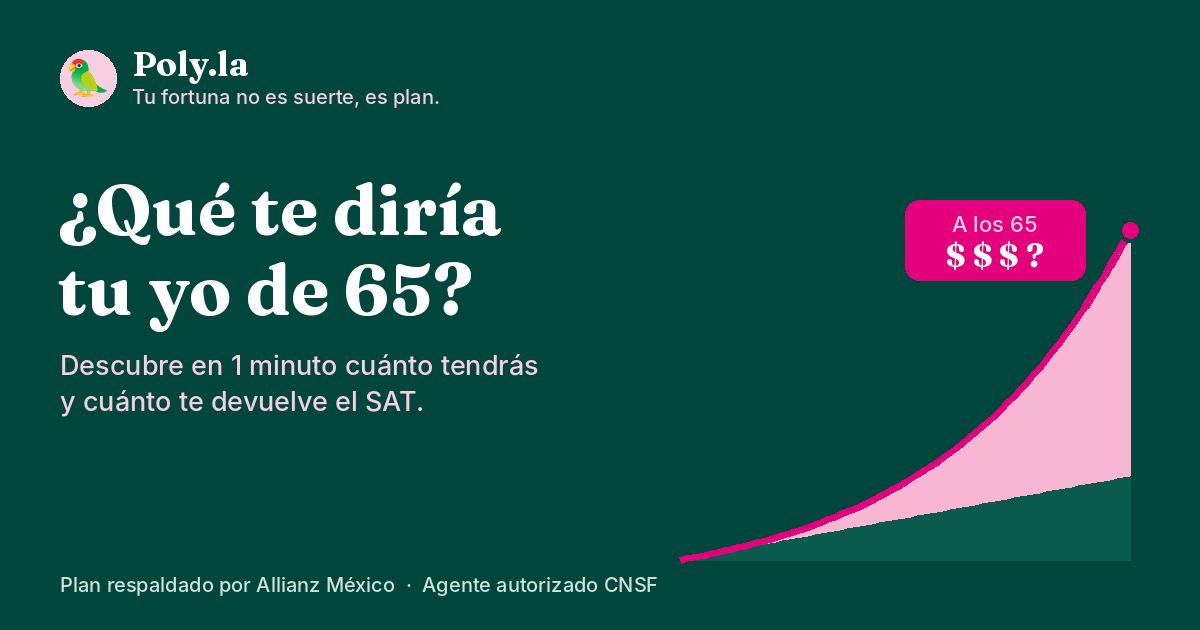
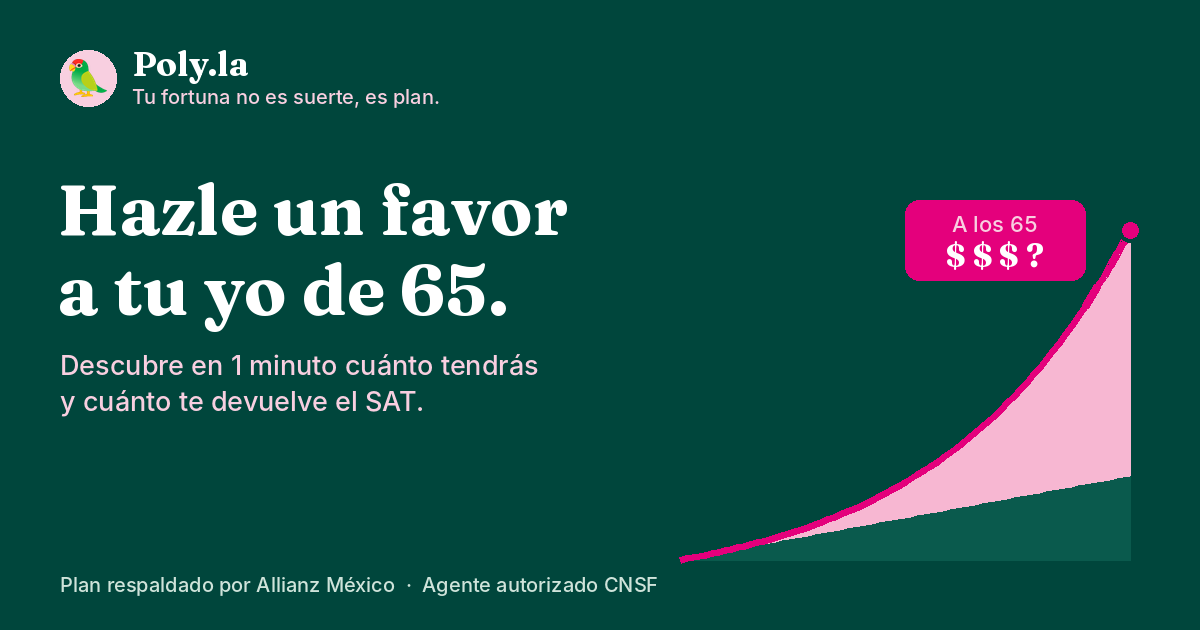
Nuevo titular: Hazle un favor a tu yo de 65
Claude-Session: https://claude.ai/code/session_01Fs5Ey6HQULdy9zAwxMFUv2

Changed region(s): [[0.0308, 0.2714, 0.4933, 0.5429]]

diff --git a/index.html b/index.html
@@ -8,7 +8,7 @@
 <meta property="og:url" content="https://stajulian5.github.io/poly-retiro/">
 <meta property="og:type" content="website">
 <meta property="og:site_name" content="Poly.la">
-<meta property="og:title" content="¿Qué te diría tu yo de 65?">
+<meta property="og:title" content="Hazle un favor a tu yo de 65.">
 <meta property="og:description" content="Descubre en 1 minuto cuánto tendrás a los 65 y cuánto te devuelve el SAT. Tu fortuna no es suerte, es plan.">
 <meta property="og:image" content="https://stajulian5.github.io/poly-retiro/og.png">
 <meta property="og:image:width" content="1200"><meta property="og:image:height" content="630">
@@ -142,10 +142,10 @@ details ul{padding-left:20px;color:var(--mute);font-size:15px;margin:4px 0}detai
 
  <!-- 0 · Teaser -->
  <section class="step on" data-s="0">
-  <h1 id="hello">Tu yo de 65 años te quiere decir algo.</h1>
-  <p class="hint" id="helloSub">Contesta 4 preguntas y descubre cuánto tendrás a los 65, cuánto te devuelve el SAT y cómo crece tu ahorro año con año.</p>
+  <h1 id="hello">Hazle un favor a tu yo de 65.</h1>
+  <p class="hint" id="helloSub">4 preguntas, 1 minuto. Te mostramos cuánto tendrás a los 65 y cuánto te regresa el SAT cada año.</p>
   <div class="fig"><svg id="teaser" role="img" aria-label="Ejemplo de cómo crece un ahorro para el retiro"></svg></div>
-  <button class="cta" data-go="1">Escuchar a mi yo de 65</button>
+  <button class="cta" data-go="1">Hacerle el favor</button>
   <p class="hint" style="text-align:center;margin-top:-8px">1 minuto · Sin datos bancarios · Sin compromiso</p>
   <div class="trust"><span><b>Allianz México</b>Plan respaldado por</span><span><b>Deducible</b>ante el SAT</span><span><b>Agente autorizado</b>por la CNSF</span></div>
  </section>
@@ -532,7 +532,7 @@ $('advName').textContent=adv.name;$('advRole').textContent=adv.role;$('advCed').
 $('avatar').innerHTML=adv.photo?`<img src="${encodeURI(adv.photo)}" alt="${adv.name}">`:ini;
 $('waBtnTxt').textContent=`Escribirle a ${first} por WhatsApp`;$('waBtn2').textContent=`Escribirle a ${first} por WhatsApp`;
 $('privacy').href=CONFIG.privacyUrl;
-if(lead.name){$('hello').textContent=`${lead.name}, tu yo de 65 años te quiere decir algo.`;$('fTitle').textContent=`${lead.name}, ¿lo armamos juntos?`}
+if(lead.name){$('hello').textContent=`${lead.name}, hazle un favor a tu yo de 65.`;$('fTitle').textContent=`${lead.name}, ¿lo armamos juntos?`}
 
 const hi=()=>`Hola ${adv.name.split(' ')[0]}${lead.name?', soy '+lead.name:''}.`;
 const waText=()=>{const r=res;if(!r)return `${hi()} Tengo una pregunta sobre el plan de retiro.${lead.id?'\nRef: '+lead.id:''}`;return `${hi()} Hice mi cálculo de retiro:
